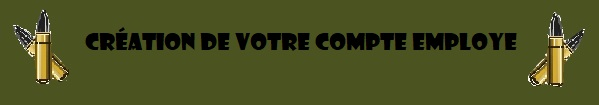
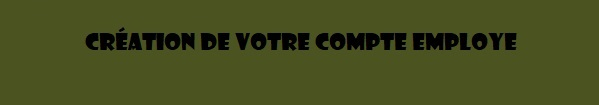
modif bordure

Changed region(s): [[0.8715, 0.1143, 0.9917, 0.8286], [0.0, 0.0857, 0.1202, 0.8]]

diff --git a/src/main/java/com/example/javarmes/Vue/ScreenCLient.java b/src/main/java/com/example/javarmes/Vue/ScreenCLient.java
@@ -34,10 +34,18 @@ public class ScreenCLient {
         txt1.setLayoutX(45);
         txt1.setLayoutY(100);*/
 
+        Image loog = new Image(Objects.requireNonNull(getClass().getResourceAsStream("/Images/logo.png")));
+        //Creating a rotated transition
+        ImageView Loog = new ImageView(loog);
+        Loog.setLayoutY(5);
+        Loog.setFitWidth(200);
+        Loog.setFitHeight(90);
+        Loog.setLayoutX(5);
+
         Image txt1 = new Image(Objects.requireNonNull(getClass().getResourceAsStream("/Images/crrea.jpg")));
         //Creating a rotated transition
         ImageView Txt1 = new ImageView(txt1);
-        Txt1.setLayoutY(20);
+        Txt1.setLayoutY(100);
         Txt1.setLayoutX(100);
 
         ImpleClientDAO clientDAO = new ImpleClientDAO();
@@ -221,7 +229,7 @@ public class ScreenCLient {
             stage.close(); /**ici nous fermons l'écran d'avant**/
         });
 
-        panne.getChildren().addAll(saisie,mailTF,mdpTF,txt4,txt6,txt67,mdpTF2,Txt1,cb1,cb2);
+        panne.getChildren().addAll(saisie,mailTF,mdpTF,txt4,txt6,txt67,mdpTF2,Txt1,cb1,cb2,Loog);
         Scene settle = new Scene(panne,800,700);
         settle.getRoot().setStyle("-fx-background-color: #4B5320; "
                 + "-fx-background-radius: 5px; "

diff --git a/src/main/java/com/example/javarmes/Vue/ScreenEmploye.java b/src/main/java/com/example/javarmes/Vue/ScreenEmploye.java
@@ -361,8 +361,17 @@ public class ScreenEmploye {
             Image txt1 = new Image(Objects.requireNonNull(getClass().getResourceAsStream("/Images/creapro.jpg")));
             //Creating a rotated transition
             ImageView Txt1 = new ImageView(txt1);
-            Txt1.setLayoutY(20);
+            Txt1.setLayoutY(100);
             Txt1.setLayoutX(100);
+
+            Image loog = new Image(Objects.requireNonNull(getClass().getResourceAsStream("/Images/logo.png")));
+            //Creating a rotated transition
+            ImageView Loog = new ImageView(loog);
+            Loog.setLayoutY(5);
+            Loog.setFitWidth(200);
+            Loog.setFitHeight(90);
+            Loog.setLayoutX(5);
+
 
             Text txt = new Text("Prénom");
             txt.setFont(new Font("Arial", 26));
@@ -427,7 +436,7 @@ public class ScreenEmploye {
                 MenuEmploye(vecemployes,vecarmes,vecmunitions);
                 settle.close();
             });
-            panne.getChildren().addAll(bbtn,txtfield,textField,txt,txxt,Txt1,cb1);
+            panne.getChildren().addAll(bbtn,txtfield,textField,txt,txxt,Txt1,cb1,Loog);
 
             Scene sceene = new Scene(panne,800,700);
 
